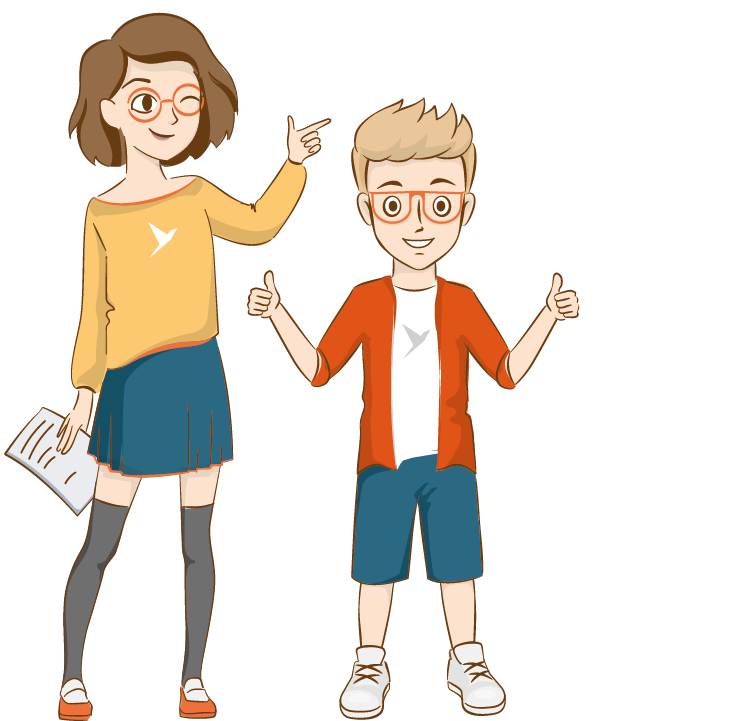
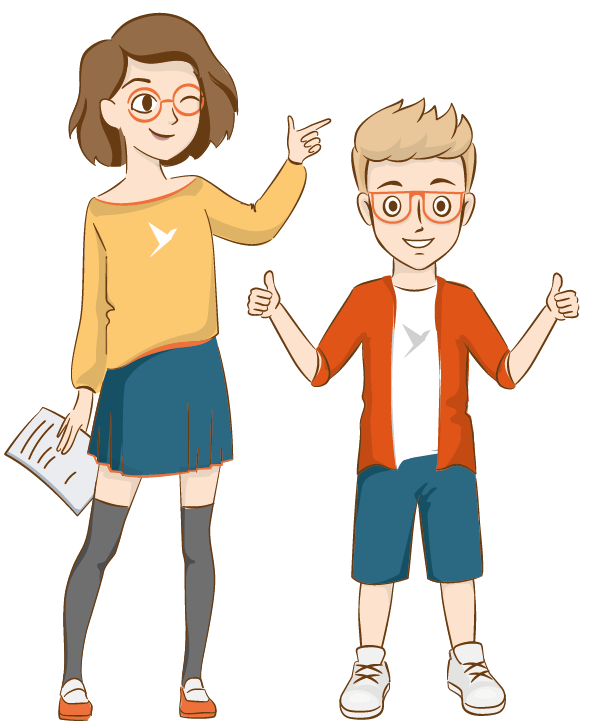
Изменил текстовку, поправил размер картинок

diff --git a/src/scenes/presents/index.js b/src/scenes/presents/index.js
@@ -20,7 +20,7 @@ export default function run() {
     myaudio.play();
     runParticles();
 
-    setTimeout(() => {
+    setTimeout(function() {
         let wish = localStorage.getItem('wish');
         if (!wish) {
             wish = wishes[_.random(0, wishes.length - 1)];
@@ -34,11 +34,11 @@ export default function run() {
         textWrapper.classList.remove("re-hide");
 
         audio.play();
-        setTimeout(() => {
+        setTimeout(function() {
             envelop.classList.remove("re-hide");
             envelop.classList.add("animated");
             envelop.classList.add("tada");
-            setTimeout(() => {
+            setTimeout(function() {
                 letter.style.transform = "translateY(0)";
                 localStorage.setItem('currentScene', 'end');
             }, 1500);

diff --git a/src/SceneManager.js b/src/SceneManager.js
@@ -38,7 +38,7 @@ function runScene(sceneName) {
 }
 
 const manager = {
-    start: ({ initialScene = "start" }) => {
+    start: function({ initialScene = "start" }) {
         current = initialScene;
 
         const storedScene = localStorage.getItem("currentScene");
@@ -48,7 +48,7 @@ const manager = {
             scenes.preload.next = scene.id;
         }
     },
-    next: (fromScene) => {
+    next: function(fromScene) {
         const scene = scenes[fromScene || current];
 
         if (scene.next) {
@@ -56,7 +56,7 @@ const manager = {
         }
     },
 
-    register: ({ id, next }) => {
+    register: function({ id, next }) {
         scenes[id] = {
             id,
             next,

diff --git a/src/scenes/presents/falling.js b/src/scenes/presents/falling.js
@@ -180,8 +180,8 @@ export default function fallingAnimation(opts) {
         el.children[0].style.transform = "rotate(0)";
         el.children[0].style.transition = el.style.transition;
 
-        setTimeout(() => {
-            requestAnimationFrame(() => {
+        setTimeout(function() {
+            requestAnimationFrame(function() {
                 el.classList.remove("re-hide");
                 el.classList.add("re-present");
                 el.style.transform = `translateY(0px)`;

diff --git a/src/games/CrossZero/View.js b/src/games/CrossZero/View.js
@@ -34,7 +34,7 @@ export default class View {
             this.metaBoard.textContent = 'Наступющий год оказался не так то прост для тебя? Возьми реванш!';
             stateChanged(3)
         } else {
-            setTimeout(() => {
+            setTimeout(function()  {
                 audio.src = './audio/win.mp3';
                 audio.volume = 0.4;
                 audio.play();

diff --git a/src/scenes/presents/particles.js b/src/scenes/presents/particles.js
@@ -6,12 +6,12 @@ let mouseX, mouseY;
 canvas.height = innerHeight;
 canvas.width = innerWidth;
 
-addEventListener("resize", () => {
+addEventListener("resize", function() {
     canvas.height = innerHeight;
     canvas.width = innerWidth;
     init();
 });
-addEventListener("mousemove", (e) => {
+addEventListener("mousemove", function(e) {
     mouseX = e.clientX;
     mouseY = e.clientY;
     return mouseX;

diff --git a/src/games/Pazzle/index.js b/src/games/Pazzle/index.js
@@ -302,6 +302,9 @@ function resetPuzzleAndCheckWin() {
         }
     }
     if (gameWin) {
+        audio.src = './audio/win.mp3'
+        audio.volume= 0.4;
+        audio.play();
         setTimeout(gameOver, 330);
     }
 }
